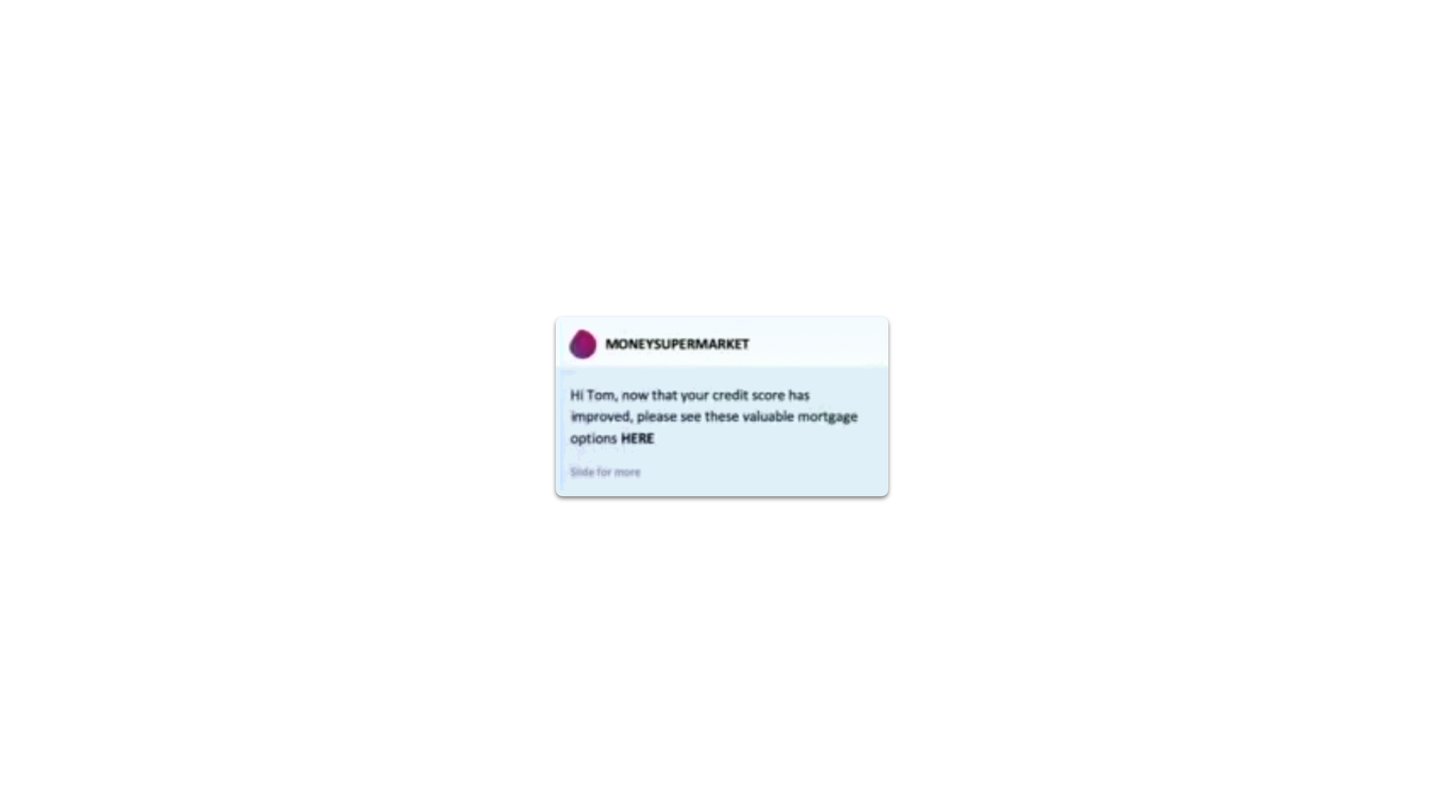
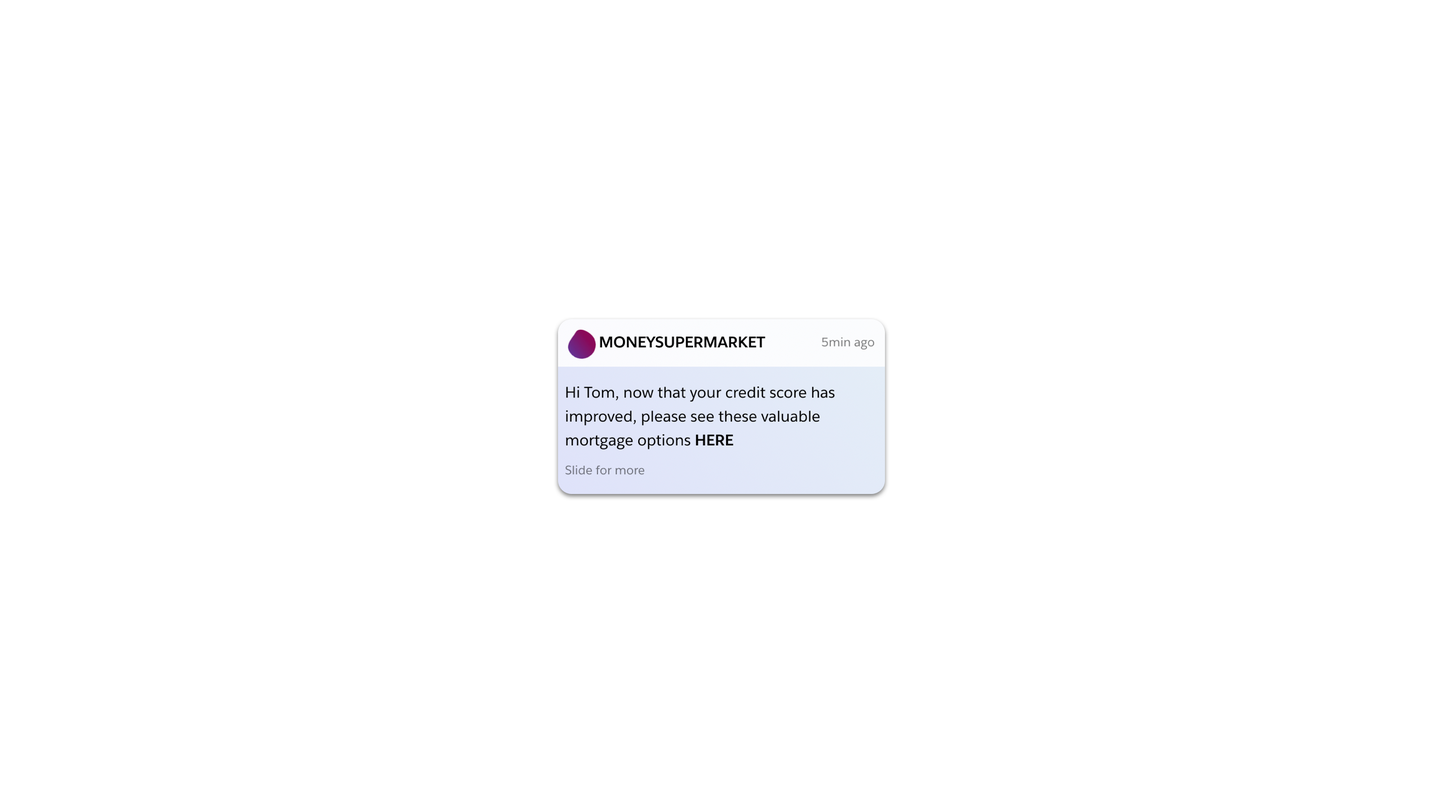
More animations in place, higher-fidelity assets for more things.

Changed region(s): [[0.375, 0.4062, 0.625, 0.625], [0.5938, 0.4062, 0.625, 0.4375]]

diff --git a/magick-flows-web-root/magick-flows/msm/assets/styles.css b/magick-flows-web-root/magick-flows/msm/assets/styles.css
@@ -2,7 +2,7 @@
 /* This is done to preload images and reduce load flicker */
 body::after {
   backface-visibility: visible;
-  content: url("/magick-flows/msm/main/0000___ID=msm-home___DATA=is-own-header__own-header-height--60___NOTES=Click-the-“Mortgages”-card.png") url("/magick-flows/msm/main/0050___ID=msm-mortgages___DATA=is-own-header__own-header-height--60___NOTES=Click-the-pink-“eligibility”-button__Near-the-house.png") url("/magick-flows/msm/main/0100___ID=msm-next___DATA=is-own-header__own-header-height--60___NOTES=Click-to-go-to-next-step.png") url("/magick-flows/msm/main/0600___ID=msm___DATA=unset___NOTES=Click-to-move-on.png") url("/magick-flows/msm/main/0700___ID=msm___DATA=unset___NOTES=Click-to-move-on.png") url("/magick-flows/msm/main/0800___ID=msm___DATA=unset___NOTES=Click-to-move-on.png") url("/magick-flows/msm/main/0900___ID=msm___DATA=unset___NOTES=Click-to-move-on.png") url("/magick-flows/msm/main/1000___ID=msm___DATA=use-step-transition__step-transition_app-switch__use-mobile-backdrop___NOTES=Click-to-move-on.png") url("/magick-flows/msm/main/1100___ID=msm___DATA=use-step-transition__step-transition_auto-advance__step-transition-timing--fast___NOTES=Click-to-move-on.png") url("/magick-flows/msm/main/1101___ID=msm___DATA=use-step-transition__step-transition_auto-advance__step-transition-timing--fast___NOTES=Click-to-move-on.png") url("/magick-flows/msm/main/1102___ID=msm___DATA=use-step-transition__step-transition_auto-advance__step-transition-timing--fast___NOTES=Click-to-move-on.png") url("/magick-flows/msm/main/1103___ID=msm___DATA=use-step-transition__step-transition_auto-advance__step-transition-timing--fast___NOTES=Click-to-move-on.png") url("/magick-flows/msm/main/1104___ID=msm___DATA=use-step-transition__step-transition_auto-advance__step-transition-timing--fast___NOTES=Click-to-move-on.png") url("/magick-flows/msm/main/1120___ID=msm___DATA=unset___NOTES=Click-to-move-on.png") url("/magick-flows/msm/main/1300___ID=msm___DATA=unset___NOTES=Click-to-move-on.png") url("/magick-flows/msm/main/1310___ID=msm-hello-there-email-entered___DATA=use-step-transition__step-transition_auto-advance__step-transition-timing--fast___NOTES=Click-to-move-on.png") url("/magick-flows/msm/main/1320___ID=msm-hello-there-email-entered___DATA=use-step-transition__step-transition_auto-advance__step-transition-timing--fast___NOTES=Click-to-move-on.png") url("/magick-flows/msm/main/1330___ID=msm-hello-there-email-entered___DATA=use-step-transition__step-transition_auto-advance__step-transition-timing--fast___NOTES=Click-to-move-on.png") url("/magick-flows/msm/main/1340___ID=msm-hello-there-email-entered___DATA=use-step-transition__step-transition_auto-advance__step-transition-timing--fast___NOTES=Click-to-move-on.png") url("/magick-flows/msm/main/1350___ID=msm-hello-there-email-entered___DATA=use-step-transition__step-transition_auto-advance__step-transition-timing--fast___NOTES=Click-to-move-on.png") url("/magick-flows/msm/main/1360___ID=msm-hello-there-email-entered___DATA=use-step-transition__step-transition_auto-advance__step-transition-timing--fast___NOTES=Click-to-move-on.png") url("/magick-flows/msm/main/1500___ID=msm___DATA=unset___NOTES=Click-to-move-on.png") url("/magick-flows/msm/main/1600___ID=msm___DATA=use-step-transition__step-transition_app-switch___NOTES=Click-to-move-on.png") url("/magick-flows/msm/main/1700___ID=msm___DATA=unset___NOTES=Click-to-move-on.png") url("/magick-flows/msm/main/2200___ID=msm-edit-email-begins___DATA=show-drawer-from-left--on-arrival__hide-drawer-from-left--never__use-step-transition__step-transition_auto-advance__step-transition-timing--normal___NOTES=Click-to-move-on.png") url("/magick-flows/msm/main/2210___ID=msm-edit-email___DATA=unset___NOTES=Click-to-move-on.png") url("/magick-flows/msm/main/2300___ID=msm___DATA=unset___NOTES=Click-to-move-on.png") url("/magick-flows/msm/main/2400___ID=msm___DATA=unset___NOTES=Click-to-move-on.png") url("/magick-flows/msm/main/2500___ID=msm___DATA=unset___NOTES=Click-to-move-on.png") url("/magick-flows/msm/main/2600___ID=msm___DATA=unset___NOTES=Click-to-move-on.png") url("/magick-flows/msm/main/2650___ID=msm-edit-email-will-end___DATA=unset___NOTES=Click-the-“Save”-button-to-close-the-email-editor.png") url("/magick-flows/msm/main/2700___ID=msm-edit-email-ends___DATA=show-drawer-from-left--instantly__hide-drawer-from-left--on-leave__use-step-transition__step-transition_auto-advance__step-transition-timing--normal___NOTES=Drawer-hides__Will-auto-advance.png") url("/magick-flows/msm/main/2800___ID=msm___DATA=unset___NOTES=Click-the-“Activate”-button.png") url("/magick-flows/msm/main/2900___ID=msm___DATA=use-step-transition__step-transition_app-switch___NOTES=Click-to-move-on.png") url("/magick-flows/msm/main/3100___ID=msm___DATA=unset___NOTES=Click-to-move-on.png") url("/magick-flows/msm/main/3200___ID=msm___DATA=use-step-transition__step-transition_app-switch___NOTES=Click-to-move-on.png") url("/magick-flows/msm/main/3300___ID=msm___DATA=unset___NOTES=Click-to-move-on.png") url("/magick-flows/msm/main/3500___ID=msm___DATA=use-step-transition__step-transition_app-switch___NOTES=Click-to-move-on.png") url("/magick-flows/msm/main/3650___ID=msm-push-credit-card___DATA=show-ios-notification___NOTES=Click-to-move-on.png") url("/magick-flows/msm/main/3700___ID=msm-credit-card___DATA=unset___NOTES=Click-to-move-on.png") url("/magick-flows/msm/main/3700___ID=msm-iphone-home-screen___DATA=use-step-transition__step-transition_app-switch___NOTES=Click-to-move-on.png") url("/magick-flows/msm/main/4000___ID=msm-cc-app-msg___DATA=show-ios-notification___NOTES=Click-to-move-on.png") url("/magick-flows/msm/main/4200___ID=msm___DATA=use-step-transition__step-transition_app-switch___NOTES=Click-to-move-on.png") url("/magick-flows/msm/main/4300___ID=msm___DATA=unset___NOTES=Click-to-move-on.png") url("/magick-flows/msm/main/4500___ID=msm___DATA=use-step-transition__step-transition_auto-advance__step-transition-timing--normal___NOTES=Click-to-move-on.png") url("/magick-flows/msm/main/4600___ID=msm___DATA=use-step-transition__step-transition_auto-advance__step-transition-timing--normal___NOTES=Click-to-move-on.png") url("/magick-flows/msm/main/4800___ID=msm___DATA=use-step-transition__step-transition_app-switch___NOTES=Click-to-move-on.png") url("/magick-flows/msm/main/4900___ID=datorama-mix-and-connect___DATA=show-drawer-from-left--instantly__hide-drawer-from-left--never__is-own-header__own-header-height--60___NOTES=Notes-go-here.png") url("/magick-flows/msm/main/5000___ID=msm-ccredit-monitor-home___DATA=use-step-transition__step-transition_app-switch___NOTES=Click-to-move-on.png") url("/magick-flows/msm/main/5100___ID=msm-ccredit-monitor-msg___DATA=show-ios-notification___NOTES=Click-to-move-on.png") url("/magick-flows/msm/main/9999___ID=msm-final-step___DATA=use-step-transition__step-transition_app-switch___NOTES=End.png") url("/magick-flows/msm/assets/all__mobile-backdrop.png") url("/magick-flows/msm/assets/all__viewport-size.png") url("/magick-flows/msm/assets/datorama-mix-and-connect___drawer-from-left.png") url("/magick-flows/msm/assets/msm-cc-app-msg___ios-notification.png") url("/magick-flows/msm/assets/msm-ccredit-monitor-msg___ios-notification.png") url("/magick-flows/msm/assets/msm-edit-email-begins___drawer-from-left.png") url("/magick-flows/msm/assets/msm-edit-email-ends___drawer-from-left.png") url("/magick-flows/msm/assets/msm-push-credit-card___ios-notification.png");
+  content: url("/magick-flows/msm/main/0000___ID=msm-home___DATA=is-own-header__own-header-height--60___NOTES=Click-the-“Mortgages”-card.png") url("/magick-flows/msm/main/0050___ID=msm-mortgages___DATA=is-own-header__own-header-height--60___NOTES=Click-the-pink-“eligibility”-button__Near-the-house.png") url("/magick-flows/msm/main/0100___ID=msm-next___DATA=is-own-header__own-header-height--60___NOTES=Click-to-go-to-next-step.png") url("/magick-flows/msm/main/0600___ID=msm___DATA=unset___NOTES=Click-to-move-on.png") url("/magick-flows/msm/main/0700___ID=msm___DATA=unset___NOTES=Click-to-move-on.png") url("/magick-flows/msm/main/0800___ID=msm___DATA=unset___NOTES=Click-to-move-on.png") url("/magick-flows/msm/main/0900___ID=msm___DATA=unset___NOTES=Click-to-move-on.png") url("/magick-flows/msm/main/1000___ID=msm___DATA=use-step-transition__step-transition_app-switch__use-mobile-backdrop___NOTES=Click-to-move-on.png") url("/magick-flows/msm/main/1100___ID=msm___DATA=use-step-transition__step-transition_auto-advance__step-transition-timing--fast___NOTES=Click-to-move-on.png") url("/magick-flows/msm/main/1101___ID=msm___DATA=use-step-transition__step-transition_auto-advance__step-transition-timing--fast___NOTES=Click-to-move-on.png") url("/magick-flows/msm/main/1102___ID=msm___DATA=use-step-transition__step-transition_auto-advance__step-transition-timing--fast___NOTES=Click-to-move-on.png") url("/magick-flows/msm/main/1103___ID=msm___DATA=use-step-transition__step-transition_auto-advance__step-transition-timing--fast___NOTES=Click-to-move-on.png") url("/magick-flows/msm/main/1104___ID=msm___DATA=use-step-transition__step-transition_auto-advance__step-transition-timing--fast___NOTES=Click-to-move-on.png") url("/magick-flows/msm/main/1120___ID=msm___DATA=unset___NOTES=Click-to-move-on.png") url("/magick-flows/msm/main/1300___ID=msm___DATA=unset___NOTES=Click-to-move-on.png") url("/magick-flows/msm/main/1310___ID=msm-hello-there-email-entered___DATA=use-step-transition__step-transition_auto-advance__step-transition-timing--fast___NOTES=Click-to-move-on.png") url("/magick-flows/msm/main/1320___ID=msm-hello-there-email-entered___DATA=use-step-transition__step-transition_auto-advance__step-transition-timing--fast___NOTES=Click-to-move-on.png") url("/magick-flows/msm/main/1330___ID=msm-hello-there-email-entered___DATA=use-step-transition__step-transition_auto-advance__step-transition-timing--fast___NOTES=Click-to-move-on.png") url("/magick-flows/msm/main/1340___ID=msm-hello-there-email-entered___DATA=use-step-transition__step-transition_auto-advance__step-transition-timing--fast___NOTES=Click-to-move-on.png") url("/magick-flows/msm/main/1350___ID=msm-hello-there-email-entered___DATA=use-step-transition__step-transition_auto-advance__step-transition-timing--fast___NOTES=Click-to-move-on.png") url("/magick-flows/msm/main/1360___ID=msm-hello-there-email-entered___DATA=use-step-transition__step-transition_auto-advance__step-transition-timing--fast___NOTES=Click-to-move-on.png") url("/magick-flows/msm/main/1500___ID=msm___DATA=use-step-transition__step-transition_auto-advance__step-transition-timing--fast___NOTES=Click-to-move-on.png") url("/magick-flows/msm/main/1510___ID=msm___DATA=use-step-transition__step-transition_auto-advance__step-transition-timing--fast___NOTES=Click-to-move-on.png") url("/magick-flows/msm/main/1520___ID=msm___DATA=use-step-transition__step-transition_auto-advance__step-transition-timing--fast___NOTES=Click-to-move-on.png") url("/magick-flows/msm/main/1530___ID=msm___DATA=use-step-transition__step-transition_auto-advance__step-transition-timing--fast___NOTES=Click-to-move-on.png") url("/magick-flows/msm/main/1540___ID=msm___DATA=use-step-transition__step-transition_auto-advance__step-transition-timing--fast___NOTES=Click-to-move-on.png") url("/magick-flows/msm/main/1550___ID=msm___DATA=use-step-transition__step-transition_auto-advance__step-transition-timing--fast___NOTES=Click-to-move-on.png") url("/magick-flows/msm/main/1560___ID=msm___DATA=use-step-transition__step-transition_auto-advance__step-transition-timing--fast___NOTES=Click-to-move-on.png") url("/magick-flows/msm/main/1570___ID=msm___DATA=use-step-transition__step-transition_auto-advance__step-transition-timing--fast___NOTES=Click-to-move-on.png") url("/magick-flows/msm/main/1580___ID=msm___DATA=unset___NOTES=Click-to-move-on.png") url("/magick-flows/msm/main/1600___ID=msm___DATA=use-step-transition__step-transition_app-switch___NOTES=Click-to-move-on.png") url("/magick-flows/msm/main/1700___ID=msm___DATA=unset___NOTES=Click-to-move-on.png") url("/magick-flows/msm/main/2200___ID=msm-edit-email-begins___DATA=show-drawer-from-left--on-arrival__hide-drawer-from-left--never__use-step-transition__step-transition_auto-advance__step-transition-timing--normal___NOTES=Click-to-move-on.png") url("/magick-flows/msm/main/2210___ID=msm-edit-email___DATA=unset___NOTES=Click-to-move-on.png") url("/magick-flows/msm/main/2300___ID=msm___DATA=unset___NOTES=Click-to-move-on.png") url("/magick-flows/msm/main/2400___ID=msm___DATA=unset___NOTES=Click-to-move-on.png") url("/magick-flows/msm/main/2500___ID=msm___DATA=unset___NOTES=Click-to-move-on.png") url("/magick-flows/msm/main/2600___ID=msm___DATA=unset___NOTES=Click-to-move-on.png") url("/magick-flows/msm/main/2650___ID=msm-edit-email-will-end___DATA=unset___NOTES=Click-the-“Save”-button-to-close-the-email-editor.png") url("/magick-flows/msm/main/2700___ID=msm-edit-email-ends___DATA=show-drawer-from-left--instantly__hide-drawer-from-left--on-leave__use-step-transition__step-transition_auto-advance__step-transition-timing--normal___NOTES=Drawer-hides__Will-auto-advance.png") url("/magick-flows/msm/main/2800___ID=msm___DATA=unset___NOTES=Click-the-“Activate”-button.png") url("/magick-flows/msm/main/2900___ID=msm___DATA=use-step-transition__step-transition_app-switch___NOTES=Click-to-move-on.png") url("/magick-flows/msm/main/3100___ID=msm___DATA=unset___NOTES=Click-to-move-on.png") url("/magick-flows/msm/main/3200___ID=msm___DATA=use-step-transition__step-transition_app-switch___NOTES=Click-to-move-on.png") url("/magick-flows/msm/main/3300___ID=msm___DATA=unset___NOTES=Click-to-move-on.png") url("/magick-flows/msm/main/3500___ID=msm___DATA=use-step-transition__step-transition_app-switch___NOTES=Click-to-move-on.png") url("/magick-flows/msm/main/3650___ID=msm-push-credit-card___DATA=show-ios-notification___NOTES=Click-to-move-on.png") url("/magick-flows/msm/main/3700___ID=msm-credit-card___DATA=unset___NOTES=Click-to-move-on.png") url("/magick-flows/msm/main/3700___ID=msm-iphone-home-screen___DATA=use-step-transition__step-transition_app-switch__use-step-transition__step-transition_auto-advance__step-transition-timing--normal___NOTES=Click-to-move-on.png") url("/magick-flows/msm/main/3800___ID=msm-cc-app-msg___DATA=show-ios-notification___NOTES=Click-to-move-on.png") url("/magick-flows/msm/main/4200___ID=msm___DATA=use-step-transition__step-transition_app-switch___NOTES=Click-to-move-on.png") url("/magick-flows/msm/main/4300___ID=msm___DATA=unset___NOTES=Click-to-move-on.png") url("/magick-flows/msm/main/4500___ID=msm___DATA=use-step-transition__step-transition_auto-advance__step-transition-timing--normal___NOTES=Click-to-move-on.png") url("/magick-flows/msm/main/4600___ID=msm___DATA=use-step-transition__step-transition_auto-advance__step-transition-timing--normal___NOTES=Click-to-move-on.png") url("/magick-flows/msm/main/4800___ID=msm___DATA=use-step-transition__step-transition_app-switch___NOTES=Click-to-move-on.png") url("/magick-flows/msm/main/4900___ID=datorama-mix-and-connect___DATA=show-drawer-from-left--instantly__hide-drawer-from-left--never__is-own-header__own-header-height--60___NOTES=Notes-go-here.png") url("/magick-flows/msm/main/5000___ID=msm-ccredit-monitor-home___DATA=use-step-transition__step-transition_app-switch__use-step-transition__step-transition_auto-advance__step-transition-timing--normal___NOTES=Click-to-move-on.png") url("/magick-flows/msm/main/5100___ID=msm-ccredit-monitor-msg___DATA=show-ios-notification___NOTES=Click-to-move-on.png") url("/magick-flows/msm/main/9999___ID=msm-final-step___DATA=use-step-transition__step-transition_app-switch___NOTES=End.png") url("/magick-flows/msm/assets/all__mobile-backdrop.png") url("/magick-flows/msm/assets/all__viewport-size.png") url("/magick-flows/msm/assets/datorama-mix-and-connect___drawer-from-left.png") url("/magick-flows/msm/assets/msm-cc-app-msg___ios-notification.png") url("/magick-flows/msm/assets/msm-ccredit-monitor-msg___ios-notification.png") url("/magick-flows/msm/assets/msm-edit-email-begins___drawer-from-left.png") url("/magick-flows/msm/assets/msm-edit-email-ends___drawer-from-left.png") url("/magick-flows/msm/assets/msm-push-credit-card___ios-notification.png");
   outline: 1px solid red;
   height: 0;
   overflow: hidden;
@@ -166,7 +166,7 @@ body, .container {
   position: absolute;
   top: 0;
   transition: 2000ms transform, 800ms left;
-  width: 129280px;
+  width: 149760px;
 }
 
 .app-switcher-one.shrink {
@@ -1860,6 +1860,262 @@ body.debug div#drawer-from-top--step-51::before {
   top: 0;
   width: 1280px;
   left: 130560px;
+}
+
+.app-switcher-one.be-left-52 {
+  left: -133120px;
+  transition: none !important;
+  will-change: transform, left;
+}
+
+.app-switcher-one.slide-left-52 {
+  left: -133120px;
+}
+
+body.debug div#drawer-from-top--step-52::before {
+  content: "Drawer #52";
+  display: block;
+  width: 100vw;
+  height: 3rem;
+  position: absolute;
+  bottom: 0rem;
+  background: rgba(0, 0, 0, 0.16);
+  text-align: center;
+  color: black;
+  margin: auto;
+  font-size: 2rem;
+}
+
+.magick-flows--step-52 {
+  height: 720px;
+  position: absolute;
+  top: 0;
+  width: 1280px;
+  left: 133120px;
+}
+
+.app-switcher-one.be-left-53 {
+  left: -135680px;
+  transition: none !important;
+  will-change: transform, left;
+}
+
+.app-switcher-one.slide-left-53 {
+  left: -135680px;
+}
+
+body.debug div#drawer-from-top--step-53::before {
+  content: "Drawer #53";
+  display: block;
+  width: 100vw;
+  height: 3rem;
+  position: absolute;
+  bottom: 0rem;
+  background: rgba(0, 0, 0, 0.16);
+  text-align: center;
+  color: black;
+  margin: auto;
+  font-size: 2rem;
+}
+
+.magick-flows--step-53 {
+  height: 720px;
+  position: absolute;
+  top: 0;
+  width: 1280px;
+  left: 135680px;
+}
+
+.app-switcher-one.be-left-54 {
+  left: -138240px;
+  transition: none !important;
+  will-change: transform, left;
+}
+
+.app-switcher-one.slide-left-54 {
+  left: -138240px;
+}
+
+body.debug div#drawer-from-top--step-54::before {
+  content: "Drawer #54";
+  display: block;
+  width: 100vw;
+  height: 3rem;
+  position: absolute;
+  bottom: 0rem;
+  background: rgba(0, 0, 0, 0.16);
+  text-align: center;
+  color: black;
+  margin: auto;
+  font-size: 2rem;
+}
+
+.magick-flows--step-54 {
+  height: 720px;
+  position: absolute;
+  top: 0;
+  width: 1280px;
+  left: 138240px;
+}
+
+.app-switcher-one.be-left-55 {
+  left: -140800px;
+  transition: none !important;
+  will-change: transform, left;
+}
+
+.app-switcher-one.slide-left-55 {
+  left: -140800px;
+}
+
+body.debug div#drawer-from-top--step-55::before {
+  content: "Drawer #55";
+  display: block;
+  width: 100vw;
+  height: 3rem;
+  position: absolute;
+  bottom: 0rem;
+  background: rgba(0, 0, 0, 0.16);
+  text-align: center;
+  color: black;
+  margin: auto;
+  font-size: 2rem;
+}
+
+.magick-flows--step-55 {
+  height: 720px;
+  position: absolute;
+  top: 0;
+  width: 1280px;
+  left: 140800px;
+}
+
+.app-switcher-one.be-left-56 {
+  left: -143360px;
+  transition: none !important;
+  will-change: transform, left;
+}
+
+.app-switcher-one.slide-left-56 {
+  left: -143360px;
+}
+
+body.debug div#drawer-from-top--step-56::before {
+  content: "Drawer #56";
+  display: block;
+  width: 100vw;
+  height: 3rem;
+  position: absolute;
+  bottom: 0rem;
+  background: rgba(0, 0, 0, 0.16);
+  text-align: center;
+  color: black;
+  margin: auto;
+  font-size: 2rem;
+}
+
+.magick-flows--step-56 {
+  height: 720px;
+  position: absolute;
+  top: 0;
+  width: 1280px;
+  left: 143360px;
+}
+
+.app-switcher-one.be-left-57 {
+  left: -145920px;
+  transition: none !important;
+  will-change: transform, left;
+}
+
+.app-switcher-one.slide-left-57 {
+  left: -145920px;
+}
+
+body.debug div#drawer-from-top--step-57::before {
+  content: "Drawer #57";
+  display: block;
+  width: 100vw;
+  height: 3rem;
+  position: absolute;
+  bottom: 0rem;
+  background: rgba(0, 0, 0, 0.16);
+  text-align: center;
+  color: black;
+  margin: auto;
+  font-size: 2rem;
+}
+
+.magick-flows--step-57 {
+  height: 720px;
+  position: absolute;
+  top: 0;
+  width: 1280px;
+  left: 145920px;
+}
+
+.app-switcher-one.be-left-58 {
+  left: -148480px;
+  transition: none !important;
+  will-change: transform, left;
+}
+
+.app-switcher-one.slide-left-58 {
+  left: -148480px;
+}
+
+body.debug div#drawer-from-top--step-58::before {
+  content: "Drawer #58";
+  display: block;
+  width: 100vw;
+  height: 3rem;
+  position: absolute;
+  bottom: 0rem;
+  background: rgba(0, 0, 0, 0.16);
+  text-align: center;
+  color: black;
+  margin: auto;
+  font-size: 2rem;
+}
+
+.magick-flows--step-58 {
+  height: 720px;
+  position: absolute;
+  top: 0;
+  width: 1280px;
+  left: 148480px;
+}
+
+.app-switcher-one.be-left-59 {
+  left: -151040px;
+  transition: none !important;
+  will-change: transform, left;
+}
+
+.app-switcher-one.slide-left-59 {
+  left: -151040px;
+}
+
+body.debug div#drawer-from-top--step-59::before {
+  content: "Drawer #59";
+  display: block;
+  width: 100vw;
+  height: 3rem;
+  position: absolute;
+  bottom: 0rem;
+  background: rgba(0, 0, 0, 0.16);
+  text-align: center;
+  color: black;
+  margin: auto;
+  font-size: 2rem;
+}
+
+.magick-flows--step-59 {
+  height: 720px;
+  position: absolute;
+  top: 0;
+  width: 1280px;
+  left: 151040px;
 }
 
 footer.magick-flows-stickey-footer_container {

diff --git a/magick-flows-web-root/magick-flows/msm/assets/variables.scss b/magick-flows-web-root/magick-flows/msm/assets/variables.scss
@@ -1,4 +1,4 @@
-$numberOfSlides: 51;
+$numberOfSlides: 59;
 $preloadImagesData: url('/magick-flows/msm/main/0000___ID=msm-home___DATA=is-own-header__own-header-height--60___NOTES=Click-the-“Mortgages”-card.png')
 		url('/magick-flows/msm/main/0050___ID=msm-mortgages___DATA=is-own-header__own-header-height--60___NOTES=Click-the-pink-“eligibility”-button__Near-the-house.png')
 		url('/magick-flows/msm/main/0100___ID=msm-next___DATA=is-own-header__own-header-height--60___NOTES=Click-to-go-to-next-step.png')
@@ -20,7 +20,15 @@ $preloadImagesData: url('/magick-flows/msm/main/0000___ID=msm-home___DATA=is-own
 		url('/magick-flows/msm/main/1340___ID=msm-hello-there-email-entered___DATA=use-step-transition__step-transition_auto-advance__step-transition-timing--fast___NOTES=Click-to-move-on.png')
 		url('/magick-flows/msm/main/1350___ID=msm-hello-there-email-entered___DATA=use-step-transition__step-transition_auto-advance__step-transition-timing--fast___NOTES=Click-to-move-on.png')
 		url('/magick-flows/msm/main/1360___ID=msm-hello-there-email-entered___DATA=use-step-transition__step-transition_auto-advance__step-transition-timing--fast___NOTES=Click-to-move-on.png')
-		url('/magick-flows/msm/main/1500___ID=msm___DATA=unset___NOTES=Click-to-move-on.png')
+		url('/magick-flows/msm/main/1500___ID=msm___DATA=use-step-transition__step-transition_auto-advance__step-transition-timing--fast___NOTES=Click-to-move-on.png')
+		url('/magick-flows/msm/main/1510___ID=msm___DATA=use-step-transition__step-transition_auto-advance__step-transition-timing--fast___NOTES=Click-to-move-on.png')
+		url('/magick-flows/msm/main/1520___ID=msm___DATA=use-step-transition__step-transition_auto-advance__step-transition-timing--fast___NOTES=Click-to-move-on.png')
+		url('/magick-flows/msm/main/1530___ID=msm___DATA=use-step-transition__step-transition_auto-advance__step-transition-timing--fast___NOTES=Click-to-move-on.png')
+		url('/magick-flows/msm/main/1540___ID=msm___DATA=use-step-transition__step-transition_auto-advance__step-transition-timing--fast___NOTES=Click-to-move-on.png')
+		url('/magick-flows/msm/main/1550___ID=msm___DATA=use-step-transition__step-transition_auto-advance__step-transition-timing--fast___NOTES=Click-to-move-on.png')
+		url('/magick-flows/msm/main/1560___ID=msm___DATA=use-step-transition__step-transition_auto-advance__step-transition-timing--fast___NOTES=Click-to-move-on.png')
+		url('/magick-flows/msm/main/1570___ID=msm___DATA=use-step-transition__step-transition_auto-advance__step-transition-timing--fast___NOTES=Click-to-move-on.png')
+		url('/magick-flows/msm/main/1580___ID=msm___DATA=unset___NOTES=Click-to-move-on.png')
 		url('/magick-flows/msm/main/1600___ID=msm___DATA=use-step-transition__step-transition_app-switch___NOTES=Click-to-move-on.png')
 		url('/magick-flows/msm/main/1700___ID=msm___DATA=unset___NOTES=Click-to-move-on.png')
 		url('/magick-flows/msm/main/2200___ID=msm-edit-email-begins___DATA=show-drawer-from-left--on-arrival__hide-drawer-from-left--never__use-step-transition__step-transition_auto-advance__step-transition-timing--normal___NOTES=Click-to-move-on.png')
@@ -39,15 +47,15 @@ $preloadImagesData: url('/magick-flows/msm/main/0000___ID=msm-home___DATA=is-own
 		url('/magick-flows/msm/main/3500___ID=msm___DATA=use-step-transition__step-transition_app-switch___NOTES=Click-to-move-on.png')
 		url('/magick-flows/msm/main/3650___ID=msm-push-credit-card___DATA=show-ios-notification___NOTES=Click-to-move-on.png')
 		url('/magick-flows/msm/main/3700___ID=msm-credit-card___DATA=unset___NOTES=Click-to-move-on.png')
-		url('/magick-flows/msm/main/3700___ID=msm-iphone-home-screen___DATA=use-step-transition__step-transition_app-switch___NOTES=Click-to-move-on.png')
-		url('/magick-flows/msm/main/4000___ID=msm-cc-app-msg___DATA=show-ios-notification___NOTES=Click-to-move-on.png')
+		url('/magick-flows/msm/main/3700___ID=msm-iphone-home-screen___DATA=use-step-transition__step-transition_app-switch__use-step-transition__step-transition_auto-advance__step-transition-timing--normal___NOTES=Click-to-move-on.png')
+		url('/magick-flows/msm/main/3800___ID=msm-cc-app-msg___DATA=show-ios-notification___NOTES=Click-to-move-on.png')
 		url('/magick-flows/msm/main/4200___ID=msm___DATA=use-step-transition__step-transition_app-switch___NOTES=Click-to-move-on.png')
 		url('/magick-flows/msm/main/4300___ID=msm___DATA=unset___NOTES=Click-to-move-on.png')
 		url('/magick-flows/msm/main/4500___ID=msm___DATA=use-step-transition__step-transition_auto-advance__step-transition-timing--normal___NOTES=Click-to-move-on.png')
 		url('/magick-flows/msm/main/4600___ID=msm___DATA=use-step-transition__step-transition_auto-advance__step-transition-timing--normal___NOTES=Click-to-move-on.png')
 		url('/magick-flows/msm/main/4800___ID=msm___DATA=use-step-transition__step-transition_app-switch___NOTES=Click-to-move-on.png')
 		url('/magick-flows/msm/main/4900___ID=datorama-mix-and-connect___DATA=show-drawer-from-left--instantly__hide-drawer-from-left--never__is-own-header__own-header-height--60___NOTES=Notes-go-here.png')
-		url('/magick-flows/msm/main/5000___ID=msm-ccredit-monitor-home___DATA=use-step-transition__step-transition_app-switch___NOTES=Click-to-move-on.png')
+		url('/magick-flows/msm/main/5000___ID=msm-ccredit-monitor-home___DATA=use-step-transition__step-transition_app-switch__use-step-transition__step-transition_auto-advance__step-transition-timing--normal___NOTES=Click-to-move-on.png')
 		url('/magick-flows/msm/main/5100___ID=msm-ccredit-monitor-msg___DATA=show-ios-notification___NOTES=Click-to-move-on.png')
 		url('/magick-flows/msm/main/9999___ID=msm-final-step___DATA=use-step-transition__step-transition_app-switch___NOTES=End.png')
 		url('/magick-flows/msm/assets/all__mobile-backdrop.png')
